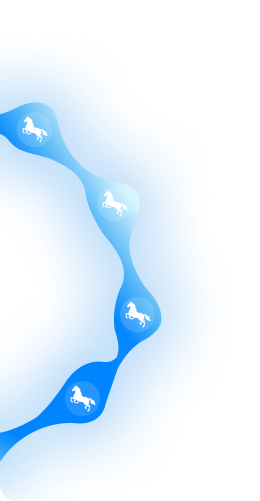
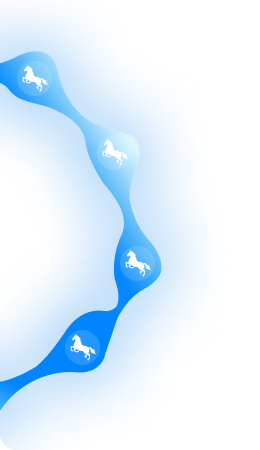
gsg

Changed region(s): [[0.0, 0.0311, 0.6462, 0.9333]]

diff --git a/frontend/app/matches/page.tsx b/frontend/app/matches/page.tsx
@@ -144,7 +144,12 @@ export default function MatchesPage() {
                 <div className="flex items-center gap-3">
                   <button
                     type="button"
-                    className="shrink-0 rounded-lg border border-white/25 bg-[#252525] px-4 py-2 font-inter text-sm font-medium text-white transition hover:bg-[#2d2d2d]"
+                    className="shrink-0 rounded-[44px] border border-white font-inter text-sm font-medium text-white transition hover:opacity-90"
+                    style={{
+                      padding: "11px 32px",
+                      background:
+                        "radial-gradient(44.33% 44.33% at 50.2% 0%, rgba(255, 255, 255, 0.2) 0%, rgba(255, 255, 255, 0) 100%)",
+                    }}
                   >
                     View Analysis
                   </button>
@@ -154,12 +159,13 @@ export default function MatchesPage() {
               {/* Two-column: race path (left) + leaderboard cards (right) with connector lines */}
               <div className="relative grid grid-cols-1 lg:grid-cols-2 gap-0 min-h-[320px]">
                 {/* Left: Race path with horses */}
-                <div className="relative min-h-[240px] lg:min-h-[320px] rounded-xl overflow-hidden bg-black">
+                <div className="relative min-h-[240px] lg:min-h-[320px] rounded-xl overflow-hidden">
                   <Image
                     src={RACE_VECTOR}
                     alt="Race track"
-                    fill
-                    className="object-contain object-center py-4"
+                    width={260}
+                    height={450}
+                    className="object-contain object-center"
                     sizes="(max-width: 1024px) 100vw, 50vw"
                   />
                 </div>
